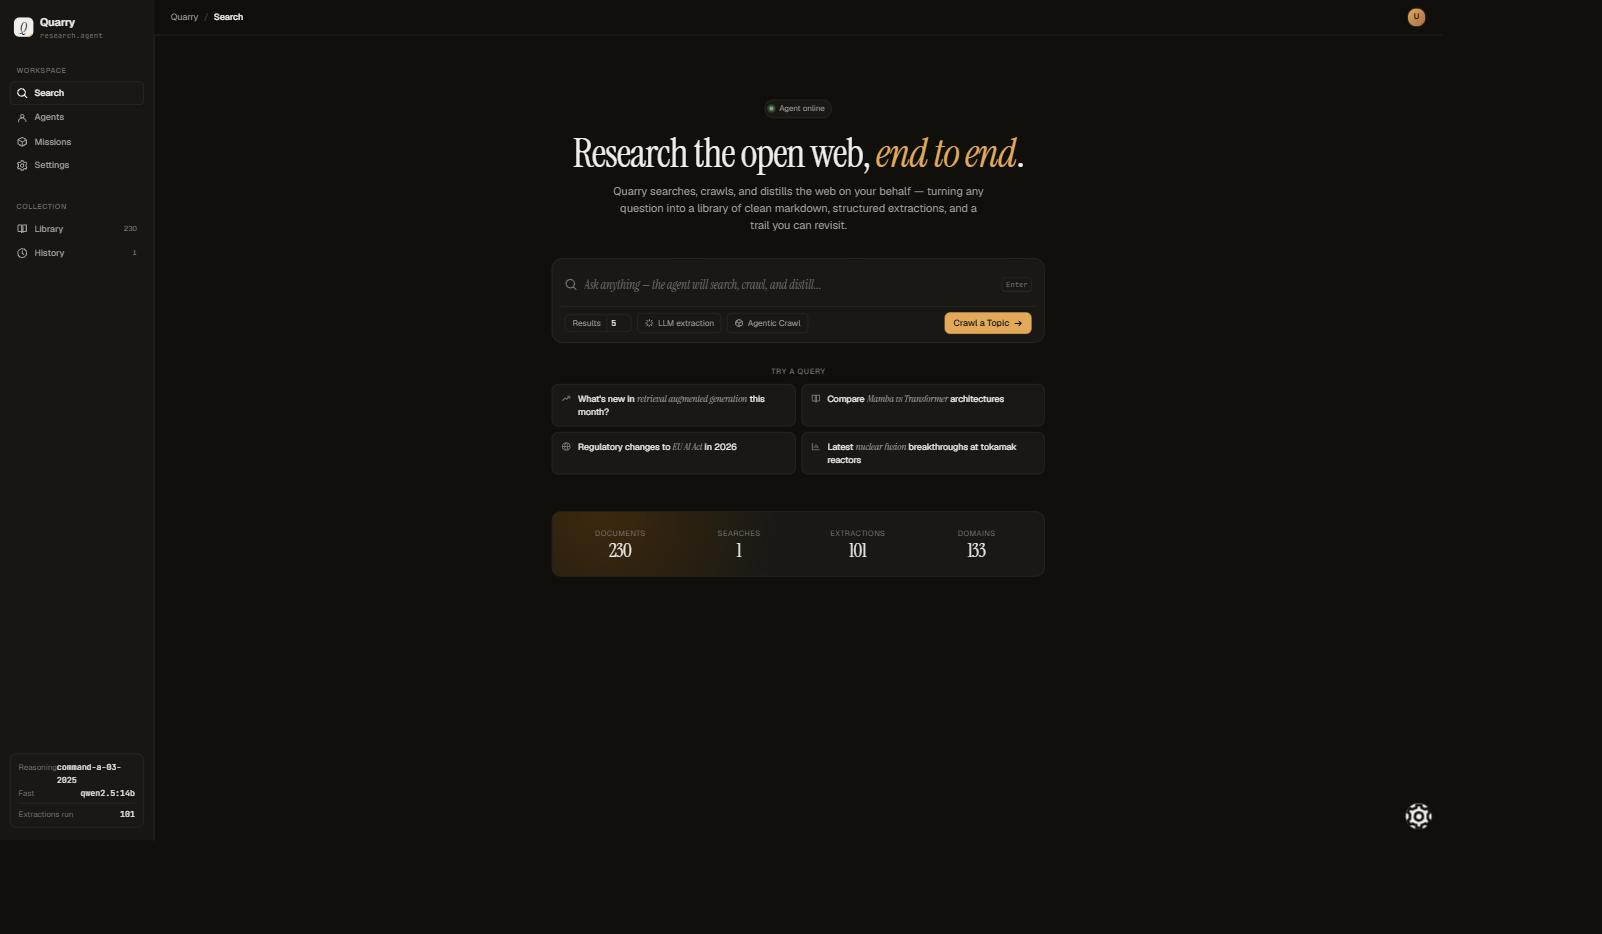
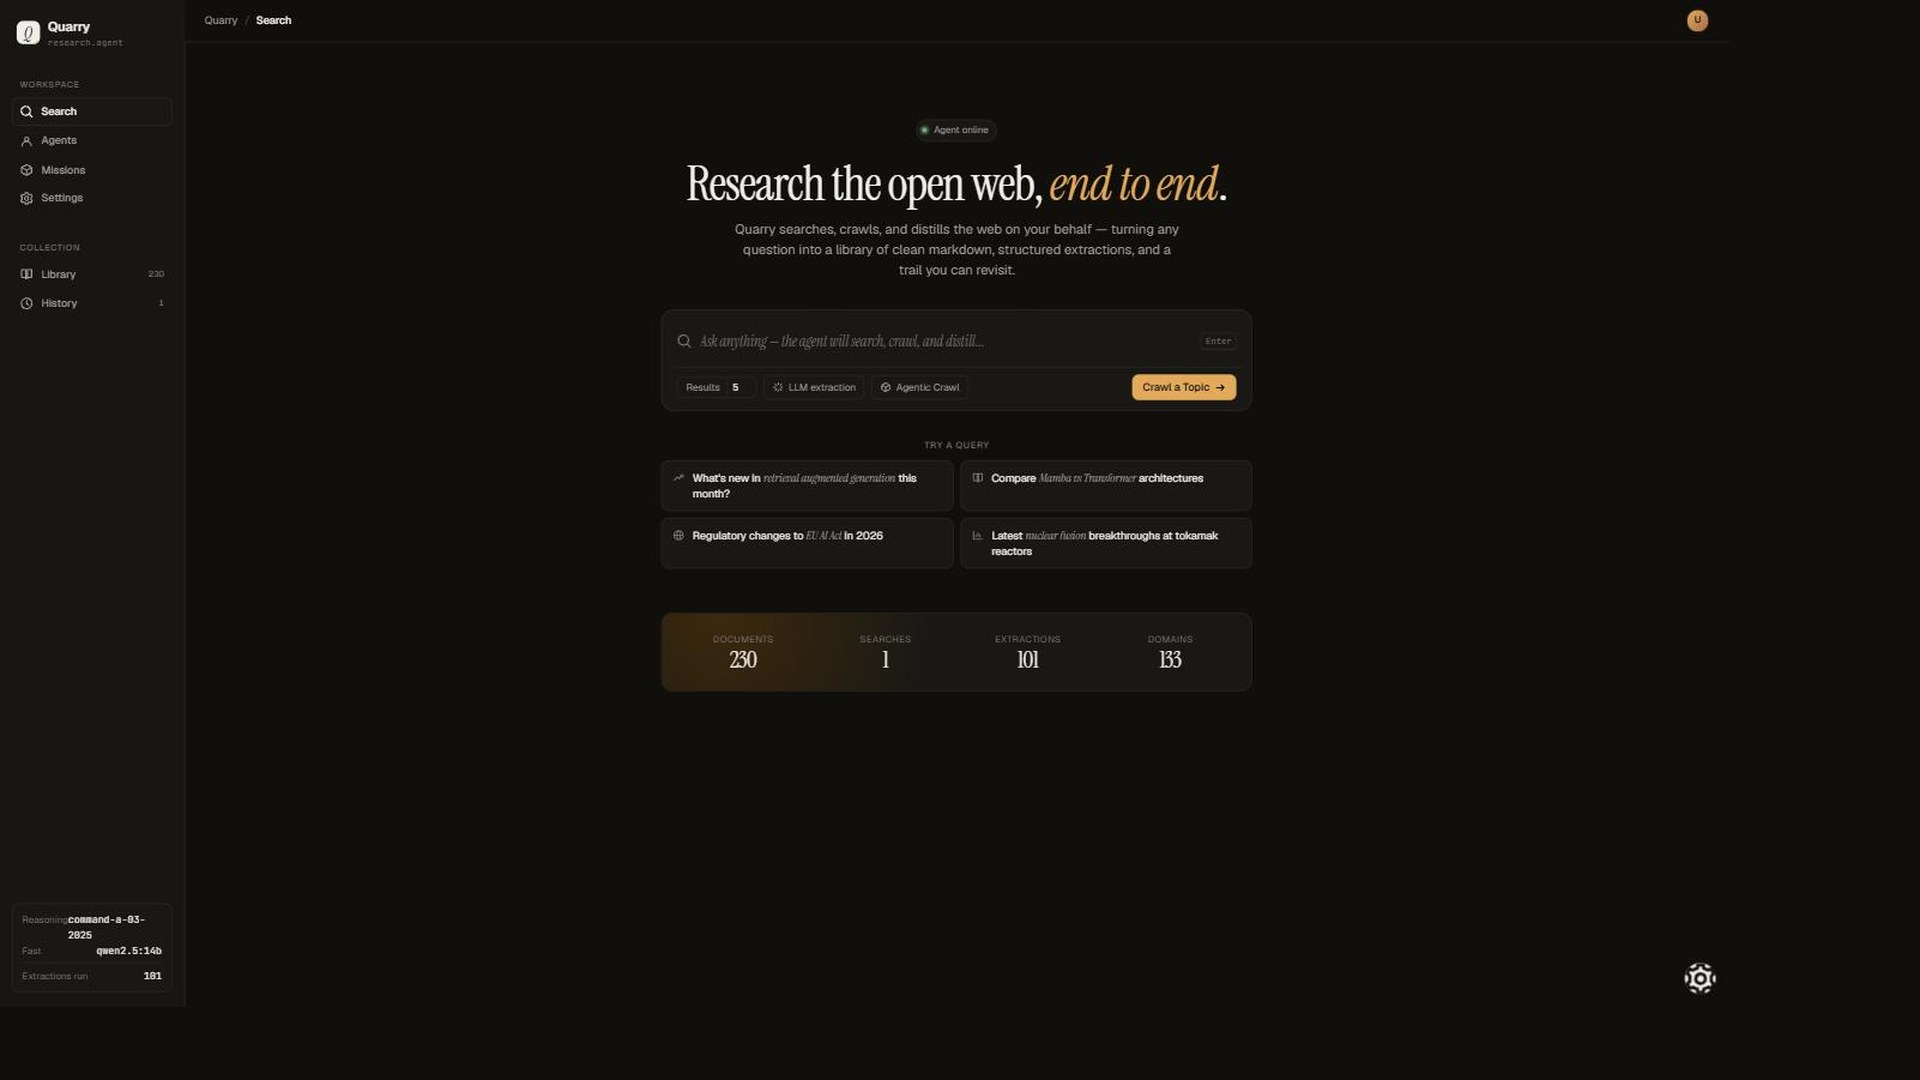
docs: standardise screenshots to 1920x1080, add light theme and agent roster
- All screenshots cropped to 16:9 and normalised to 1920x1080 (were 1442x840).
- Hero now shown in both dark and light, since the UI ships both themes.
- New Agents screenshot: the expert-agent roster, which previously had a single
  placeholder agent and so was never worth showing.
- README describes what an agent actually is (name + expertise + budget, with an
  optional cron for unattended runs).

Claude-Session: https://claude.ai/code/session_01PG9qbXDshBeXG8JEcMMW8j

diff --git a/README.md b/README.md
@@ -4,6 +4,10 @@ A small Flask app that turns a question into a searchable library of cleaned web
 
 ![Quarry search — ask a question, the agent searches, crawls, and distills](docs/img/hero-search.jpg)
 
+<sub>Light theme — the UI ships both, switchable from the tweaks panel.</sub>
+
+![Quarry search in the light theme](docs/img/hero-search-light.jpg)
+
 The agent runs three stages end-to-end:
 
 1. **Search** — DuckDuckGo text search via [`ddgs`](https://pypi.org/project/ddgs/).
@@ -80,6 +84,13 @@ autonomously — assessing each requirement, re-tasking the gaps, and synthesizi
 a cited brief. Completion is concrete rather than vibes: a mission ends when
 every requirement is satisfied or provably unmet, bounded by attempt and source
 budgets.
+
+An agent is just a name, an area of expertise, and a budget — the persona is
+generated from the expertise. Give one a cron expression and a standing question
+and it runs unattended, each brief leading with what changed since its own last
+run.
+
+![Expert agents — each with an area of expertise and its own collection budget](docs/img/agents.jpg)
 
 ![Missions — every agent run, with per-mission requirement coverage and status](docs/img/missions.jpg)
 
